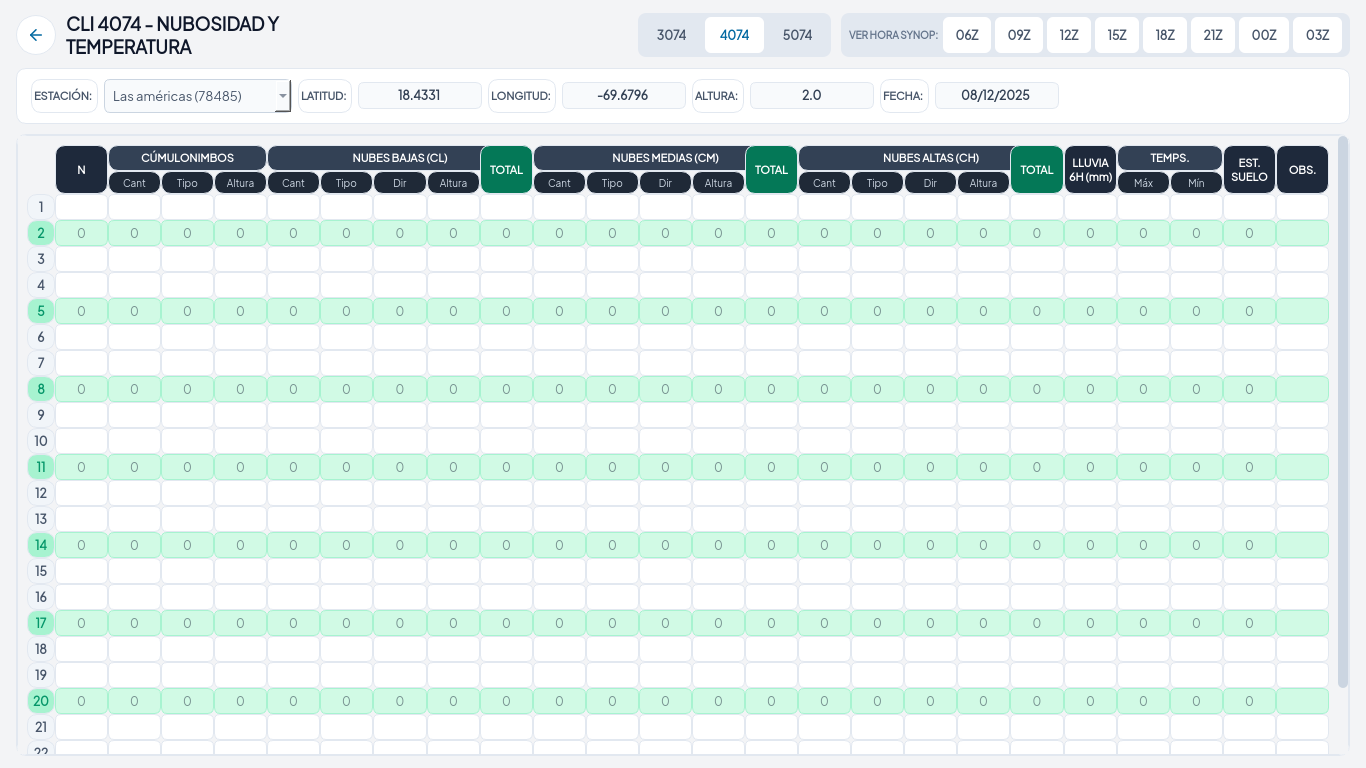
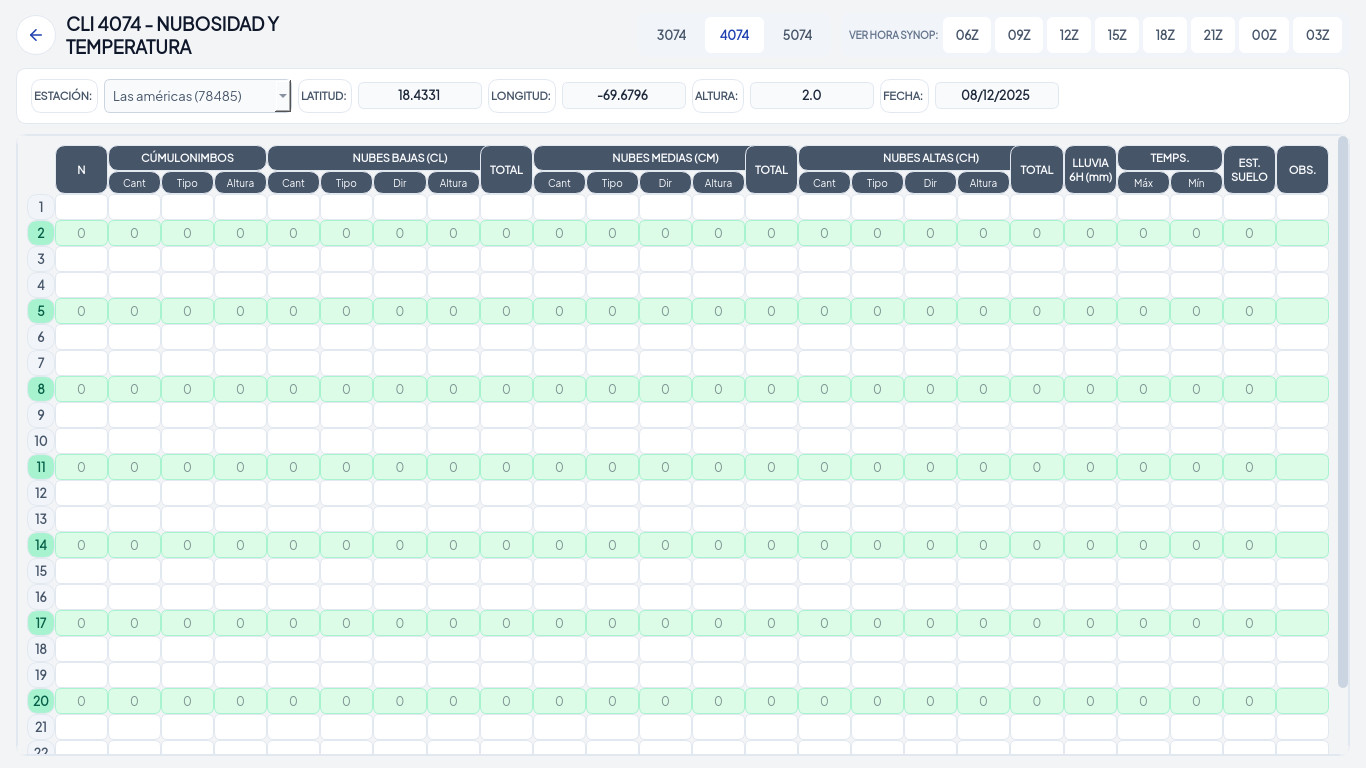
refactor(cli4074): la hoja de nubosidad sale de la paleta (F5, corte 2)
Segunda página del corte de CLI. La grilla de 24 renglones no se toca.

El verde que distingue las filas de las horas principales deja de ser literal
y gana dos roles propios en las dos paletas, `ok_borde` y `ok_texto`, porque
su función es identificar esas filas y no confundirse con el acento azul: el
4074 mantiene su identidad verde sin robar el acento.

Tematizado: hoja única (sub/main/ro/focus), checkboxes marcados en `ok`,
cabeceras de grupo y sub-cabeceras en `banda`/`banda_texto` (las cuatro
familias de nubes y los rótulos N/LLUVIA/EST. SUELO/OBS. llevaban el color en
las tuplas de datos), botón Guardar al acento único, pestañas, horas, combo y
marcos por roles. El rowspan de sub-cabecera verde usa `ok_texto`.

El test que fijaba el color de las cabeceras se migra al rol; los 90 tests de
CLI pasan.

Capturas verificadas en claro y oscuro: las filas principales se leen verde en
los dos temas.

835 passed, EXIT=0, sin avisos de parseo.

Changed region(s): [[0.0307, 0.1875, 0.9839, 0.25]]

diff --git a/oms_ui/pages/cli4074.py b/oms_ui/pages/cli4074.py
@@ -31,43 +31,52 @@ from oms_core.services import cli as cli_service
 from oms_ui.icons import lucide_icon
 from oms_ui.widgets import StyledComboBox
 
+
+def _qss(plantilla: str) -> str:
+    from string import Template
+
+    from oms_ui import theme as _theme
+
+    return Template(plantilla).substitute(_theme.palette_actual())
+
+
 #: (field, sub-header text) in column order; groups carry their own colors.
 GROUPS_4074: tuple[tuple[str, str, int, tuple[tuple[str, str], ...]], ...] = (
-    ("CÚMULONIMBOS", "#334155", 3, (
+    ("CÚMULONIMBOS", "$banda", 3, (
         ("cb_cant", "Cant"), ("cb_tipo", "Tipo"), ("cb_altura", "Altura"),
     )),
-    ("NUBES BAJAS (CL)", "#334155", 5, (
+    ("NUBES BAJAS (CL)", "$banda", 5, (
         ("nb_cant", "Cant"), ("nb_tipo", "Tipo"), ("nb_direc", "Dir"),
         ("nb_altura", "Altura"), ("nb_total", "TOTAL"),
     )),
-    ("NUBES MEDIAS (CM)", "#334155", 5, (
+    ("NUBES MEDIAS (CM)", "$banda", 5, (
         ("nm_cant", "Cant"), ("nm_tipo", "Tipo"), ("nm_direc", "Dir"),
         ("nm_altura", "Altura"), ("nm_total", "TOTAL"),
     )),
-    ("NUBES ALTAS (CH)", "#334155", 5, (
+    ("NUBES ALTAS (CH)", "$banda", 5, (
         ("na_cant", "Cant"), ("na_tipo", "Tipo"), ("na_direc", "Dir"),
         ("na_altura", "Altura"), ("na_total", "TOTAL"),
     )),
 )
 _ROWSPAN_FIELDS: tuple[tuple[str, str, str], ...] = (
-    ("nubosidad", "N", "#1e293b"),
-    ("lluvia_6h", "LLUVIA 6H (mm)", "#1e293b"),
-    ("estado_suelo", "EST. SUELO", "#1e293b"),
-    ("observador", "OBS.", "#1e293b"),
+    ("nubosidad", "N", "$banda"),
+    ("lluvia_6h", "LLUVIA 6H (mm)", "$banda"),
+    ("estado_suelo", "EST. SUELO", "$banda"),
+    ("observador", "OBS.", "$banda"),
 )
 #: ONE stylesheet for the sheet: each cell carries ``row`` ("main"/"sub") and
 #: ``ro`` so Qt parses the rules once instead of ~350 times.
 _SHEET_QSS = """
-QLineEdit[row="sub"] { background-color: #ffffff; border: 1px solid #e2e8f0;
-    color: #1e293b; font-size: 12px; padding: 3px 4px; }
-QLineEdit[row="sub"]:focus { border-color: #38bdf8; background-color: #f0f9ff; }
-QLineEdit[row="main"] { background-color: #d1fae5; border: 1px solid #a7f3d0;
-    color: #1e293b; font-size: 12px; padding: 3px 4px; }
-QLineEdit[row="main"]:focus { border-color: #10b981; background-color: white; }
-QLineEdit[row="main"][ro="true"] { background-color: #a7f3d0;
-    border: 1px solid #6ee7b7; color: #065f46; font-weight: 600; }
-QLineEdit[row="sub"][ro="true"] { background-color: #f8fafc;
-    border: 1px solid #e2e8f0; color: #475569; }
+QLineEdit[row="sub"] { background-color: $superficie; border: 1px solid $borde;
+    color: $texto; font-size: 12px; padding: 3px 4px; }
+QLineEdit[row="sub"]:focus { border-color: $acento; background-color: $acento_fondo; }
+QLineEdit[row="main"] { background-color: $ok_fondo; border: 1px solid $ok_borde;
+    color: $texto; font-size: 12px; padding: 3px 4px; }
+QLineEdit[row="main"]:focus { border-color: $ok; background-color: $superficie; }
+QLineEdit[row="main"][ro="true"] { background-color: $ok_borde;
+    border: 1px solid $ok; color: $ok_texto; font-weight: 600; }
+QLineEdit[row="sub"][ro="true"] { background-color: $panel_alt;
+    border: 1px solid $borde; color: $suave; }
 """
 
 _TEMPS: tuple[tuple[str, str], ...] = (("temp_max", "Máx"), ("temp_min", "Mín"))
@@ -77,40 +86,40 @@ ZERO_PLACEHOLDER_ROWS: frozenset[int] = frozenset(
     {2, 5, 8, 11, 14, 17, 20, 23}
 )
 #: main-hour rows tinted GREEN across the full row (IMG/CLI 4074.png).
-_MAIN_TINT = "#d1fae5"
-_MAIN_STICKY = "#a7f3d0"
-_MAIN_NUMBER = "#059669"
+_MAIN_TINT = "$ok_fondo"
+_MAIN_STICKY = "$ok_borde"
+_MAIN_NUMBER = "$ok_texto"
 _MAIN_INPUT_QSS = (
-    "QLineEdit { background-color: #d1fae5; border: 1px solid #a7f3d0;"
-    "color: #1e293b; font-size: 12px; padding: 3px 4px; }"
-    "QLineEdit:focus { border-color: #10b981; background-color: white; }"
+    "QLineEdit { background-color: $ok_fondo; border: 1px solid $ok_borde;"
+    "color: $texto; font-size: 12px; padding: 3px 4px; }"
+    "QLineEdit:focus { border-color: $ok; background-color: $superficie; }"
 )
 _CHECKBOX_QSS = (
     "QCheckBox::indicator { width: 17px; height: 17px;"
-    "border: 2px solid #64748b; border-radius: 4px; background-color: #ffffff; }"
-    "QCheckBox::indicator:hover { border-color: #10b981; }"
-    "QCheckBox::indicator:checked { background-color: #10b981;"
-    "border-color: #047857; }"
+    "border: 2px solid $suave_alt; border-radius: 4px; background-color: $superficie; }"
+    "QCheckBox::indicator:hover { border-color: $ok; }"
+    "QCheckBox::indicator:checked { background-color: $ok;"
+    "border-color: $ok_texto; }"
     "QCheckBox { background-color: transparent; }"
 )
 INPUT_QSS = (
-    "QLineEdit { background-color: #ffffff; border: 1px solid #e2e8f0;"
-    "color: #1e293b; font-size: 12px; padding: 3px 4px; }"
-    "QLineEdit:focus { border-color: #38bdf8; background-color: #f0f9ff; }"
+    "QLineEdit { background-color: $superficie; border: 1px solid $borde;"
+    "color: $texto; font-size: 12px; padding: 3px 4px; }"
+    "QLineEdit:focus { border-color: $acento; background-color: $acento_fondo; }"
 )
 _HEADER_QSS = (
-    "background-color: {color}; color: #ffffff; font-weight: bold;"
+    "background-color: $banda; color: $banda_texto; font-weight: bold;"
     "font-size: 11px; padding: 5px 3px;"
 )
 _SUB_HEADER_QSS = (
-    "background-color: #1f2937; color: #cbd5e1; font-weight: 600;"
+    "background-color: $banda; color: $banda_texto; font-weight: 600;"
     "font-size: 10px; padding: 4px 2px;"
 )
 _SAVE_QSS = (
-    "QPushButton { background-color: #0ea5e9; color: #ffffff;"
+    "QPushButton { background-color: $acento; color: $banda_texto;"
     "border: none; border-radius: 8px; padding: 7px 14px;"
     "font-weight: 700; font-size: 12px; }"
-    "QPushButton:hover { background-color: #0284c7; }"
+    "QPushButton:hover { background-color: $acento_hover; }"
 )
 
 
@@ -163,7 +172,7 @@ class Cli4074View(QWidget):
 
     def _build(self) -> None:
         central = QWidget()
-        central.setStyleSheet(_SHEET_QSS)
+        central.setStyleSheet(_qss(_SHEET_QSS))
         outer = QVBoxLayout(central)
         outer.setContentsMargins(16, 12, 16, 12)
         outer.setSpacing(10)
@@ -173,24 +182,24 @@ class Cli4074View(QWidget):
         # exposed so an embedding window (audit) can repurpose it as "close"
         self.back_button = back_btn
         back_btn.setFixedSize(40, 40)
-        back_btn.setIcon(lucide_icon("arrow-left", "#0369a1", 18))
+        back_btn.setIcon(lucide_icon("arrow-left", _qss("$acento_texto"), 18))
         back_btn.setIconSize(QSize(18, 18))
         back_btn.setCursor(Qt.CursorShape.PointingHandCursor)
         back_btn.setToolTip("Volver a la última hora de observación")
-        back_btn.setStyleSheet(
-            "QPushButton { background-color: #ffffff; border: 1px solid #e2e8f0;"
+        back_btn.setStyleSheet(_qss(
+            "QPushButton { background-color: $superficie; border: 1px solid $borde;"
             "border-radius: 20px; }"
-            "QPushButton:hover { background-color: #e0f2fe; }"
-        )
+            "QPushButton:hover { background-color: $acento_suave; }"
+        ))
         back_btn.clicked.connect(self.back_requested.emit)
         top.addWidget(back_btn, 0, Qt.AlignmentFlag.AlignVCenter)
 
         title = QLabel(self.TITLE)
-        title.setStyleSheet(
+        title.setStyleSheet(_qss(
             # fondo plano (sin fotografía ni degradado): tinta de texto
-                        "font-size: 18px; font-weight: 800; color: #0f172a;"
+                        "font-size: 18px; font-weight: 800; color: $texto_alt;"
             "background: transparent;"
-        )
+        ))
         title.setWordWrap(True)
         top.addWidget(title, 0, Qt.AlignmentFlag.AlignVCenter)
         top.addStretch(1)
@@ -203,10 +212,10 @@ class Cli4074View(QWidget):
         self._build_station_card(outer)
 
         sheet_card = QFrame()
-        sheet_card.setStyleSheet(
-            "QFrame { background-color: #ffffff; border: 1px solid #e2e8f0;"
+        sheet_card.setStyleSheet(_qss(
+            "QFrame { background-color: $superficie; border: 1px solid $borde;"
             "border-radius: 10px; }"
-        )
+        ))
         sheet_layout = QVBoxLayout(sheet_card)
         sheet_layout.setContentsMargins(0, 0, 0, 0)
         grid_host = QWidget()
@@ -223,7 +232,7 @@ class Cli4074View(QWidget):
             header = QLabel(text)
             header.setAlignment(Qt.AlignmentFlag.AlignCenter)
             header.setWordWrap(True)
-            header.setStyleSheet(_HEADER_QSS.format(color=color))
+            header.setStyleSheet(_qss(_HEADER_QSS.format(color=color)))
             grid.addWidget(header, 0, at_col, 2, 1)  # full header height
 
         def group_header(at_col: int, text: str, color: str,
@@ -231,15 +240,15 @@ class Cli4074View(QWidget):
             header = QLabel(text)
             header.setAlignment(Qt.AlignmentFlag.AlignCenter)
             header.setWordWrap(True)
-            header.setStyleSheet(_HEADER_QSS.format(color=color))
+            header.setStyleSheet(_qss(_HEADER_QSS.format(color=color)))
             grid.addWidget(header, 0, at_col, 1, span)
             for offset, (field, sub) in enumerate(fields):
                 if field in TOTAL_FIELDS:  # full height + emerald, like N
-                    rowspan_header(sub, "#047857", at_col + offset)
+                    rowspan_header(sub, _qss("$ok_texto"), at_col + offset)
                     continue
                 sub_label = QLabel(sub)
                 sub_label.setAlignment(Qt.AlignmentFlag.AlignCenter)
-                sub_label.setStyleSheet(_SUB_HEADER_QSS)
+                sub_label.setStyleSheet(_qss(_SUB_HEADER_QSS))
                 grid.addWidget(sub_label, 1, at_col + offset)
 
         # column order verbatim IMG/CLI 4074.png: N first, then the four
@@ -252,7 +261,7 @@ class Cli4074View(QWidget):
         group_header(col, "NUBES MEDIAS (CM)", GROUPS_4074[2][1], 5, GROUPS_4074[2][3]); col += 5
         group_header(col, "NUBES ALTAS (CH)", GROUPS_4074[3][1], 5, GROUPS_4074[3][3]); col += 5
         rowspan_header("LLUVIA 6H (mm)", _ROWSPAN_FIELDS[1][2], col); col += 1
-        group_header(col, "TEMPS.", "#334155", 2, _TEMPS); col += 2
+        group_header(col, "TEMPS.", _qss("$banda"), 2, _TEMPS); col += 2
         rowspan_header("EST. SUELO", _ROWSPAN_FIELDS[2][2], col); col += 1
         rowspan_header("OBS.", _ROWSPAN_FIELDS[3][2], col); col += 1
 
@@ -261,8 +270,8 @@ class Cli4074View(QWidget):
             number.setAlignment(Qt.AlignmentFlag.AlignCenter)
             main = (row - 2) % 3 == 0
             number.setStyleSheet(
-                f"background-color: {_MAIN_STICKY if main else '#f1f5f9'};"
-                f"color: {_MAIN_NUMBER if main else '#475569'}; font-weight: bold;"
+                f"background-color: {_qss(_MAIN_STICKY) if main else _qss('$panel')};"
+                f"color: {_qss(_MAIN_NUMBER) if main else _qss('$suave')}; font-weight: bold;"
                 "font-size: 12px; padding: 4px 5px;"
             )
             grid.addWidget(number, row + 1, 0)
@@ -310,7 +319,7 @@ class Cli4074View(QWidget):
 
     def _build_tabs(self, top: QHBoxLayout) -> None:
         tabs_box = QWidget()
-        tabs_box.setStyleSheet("background-color: #e2e8f0; border-radius: 8px;")
+        tabs_box.setStyleSheet(_qss("background-color: $panel; border-radius: 8px;"))
         tabs_row = QHBoxLayout(tabs_box)
         tabs_row.setContentsMargins(4, 4, 4, 4)
         tabs_row.setSpacing(4)
@@ -320,11 +329,11 @@ class Cli4074View(QWidget):
             active = module_key == self.MODULE_KEY
             tab = QPushButton(label)
             tab.setStyleSheet(
-                f"QPushButton {{ background-color: {'#ffffff' if active else 'transparent'};"
-                f"color: {'#0369a1' if active else '#475569'}; border: none;"
+                f"QPushButton {{ background-color: {_qss('$superficie') if active else 'transparent'};"
+                f"color: {_qss('$acento_texto') if active else _qss('$suave')}; border: none;"
                 "border-radius: 6px; padding: 6px 14px; font-size: 12px;"
                 "font-weight: bold; min-height: 24px; }"
-                "QPushButton:hover { background-color: #f0f9ff; }"
+                "QPushButton:hover { background-color: $acento_fondo; }"
             )
             tab.setCursor(Qt.CursorShape.PointingHandCursor)
             if not active:
@@ -336,25 +345,25 @@ class Cli4074View(QWidget):
 
     def _build_ver_hora(self, top: QHBoxLayout) -> None:
         hour_box = QWidget()
-        hour_box.setStyleSheet("background-color: #e2e8f0; border-radius: 8px;")
+        hour_box.setStyleSheet(_qss("background-color: $panel; border-radius: 8px;"))
         hour_row = QHBoxLayout(hour_box)
         hour_row.setContentsMargins(8, 4, 8, 4)
         hour_row.setSpacing(4)
         hint = QLabel("VER HORA SYNOP:")
-        hint.setStyleSheet(
-            "color: #64748b; font-size: 10px; font-weight: 700;"
+        hint.setStyleSheet(_qss(
+            "color: $suave_alt; font-size: 10px; font-weight: 700;"
             "background: transparent;"
-        )
+        ))
         hour_row.addWidget(hint)
         for hour in ("06Z", "09Z", "12Z", "15Z", "18Z", "21Z",
                       "00Z", "03Z"):  # the day starts at 06Z
             button = QPushButton(hour)
-            button.setStyleSheet(
-                "QPushButton { background-color: #ffffff; color: #475569;"
+            button.setStyleSheet(_qss(
+                "QPushButton { background-color: $superficie; color: $suave;"
                 "border: none; border-radius: 6px; padding: 6px 12px;"
                 "font-size: 12px; font-weight: bold; min-height: 24px; }"
-                "QPushButton:hover { color: #0369a1; background-color: #f0f9ff; }"
-            )
+                "QPushButton:hover { color: $acento_texto; background-color: $acento_fondo; }"
+            ))
             button.setCursor(Qt.CursorShape.PointingHandCursor)
             button.clicked.connect(
                 lambda _checked=False, h=hour: self.synop_hour_requested.emit(h)
@@ -364,19 +373,19 @@ class Cli4074View(QWidget):
 
     def _build_station_card(self, outer: QVBoxLayout) -> None:
         card = QFrame()
-        card.setStyleSheet(
-            "QFrame { background-color: #ffffff; border: 1px solid #e2e8f0;"
+        card.setStyleSheet(_qss(
+            "QFrame { background-color: $superficie; border: 1px solid $borde;"
             "border-radius: 10px; }"
-        )
+        ))
         grid = QGridLayout(card)
         grid.setContentsMargins(14, 10, 14, 10)
 
         def meta_label(text: str) -> QLabel:
             label = QLabel(text)
-            label.setStyleSheet(
-                "color: #475569; font-weight: 700; font-size: 11px;"
+            label.setStyleSheet(_qss(
+                "color: $suave; font-weight: 700; font-size: 11px;"
                 "background: transparent;"
-            )
+            ))
             return label
 
         self.station_combo = StyledComboBox()
@@ -386,10 +395,10 @@ class Cli4074View(QWidget):
             max(self.station_combo.findData(self.station), 0)
         )
         self.station_combo.setEnabled(False)  # locked like the oracle route
-        self.station_combo.setStyleSheet(
-            "QComboBox { background-color: #f8fafc; border: 1px solid #cbd5e1;"
-            "border-radius: 6px; padding: 4px 8px; color: #475569; height: 24px; }"
-        )
+        self.station_combo.setStyleSheet(_qss(
+            "QComboBox { background-color: $panel_alt; border: 1px solid $borde_input;"
+            "border-radius: 6px; padding: 4px 8px; color: $suave; height: 24px; }"
+        ))
         self.fecha_edit = _ro_field(f"{self.fecha[8:]}/{self.fecha[5:7]}/{self.fecha[:4]}")
 
         station_row = next(
@@ -490,9 +499,9 @@ def _ro_field(text: str) -> QLineEdit:
     edit = QLineEdit(text)
     edit.setReadOnly(True)
     edit.setAlignment(Qt.AlignmentFlag.AlignCenter)
-    edit.setStyleSheet(
-        "background-color: #f8fafc; border: 1px solid #e2e8f0;"
-        "border-radius: 6px; padding: 4px 8px; color: #334155; font-size: 12px;"
-    )
+    edit.setStyleSheet(_qss(
+        "background-color: $panel_alt; border: 1px solid $borde;"
+        "border-radius: 6px; padding: 4px 8px; color: $texto; font-size: 12px;"
+    ))
     return edit
 

diff --git a/oms_ui/theme.py b/oms_ui/theme.py
@@ -64,6 +64,8 @@ PALETTE_CLARO: dict[str, str] = {
     "ok_fondo": "#dcfce7",
     "banda": "#475569",
     "banda_texto": "#f8fafc",
+    "ok_borde": "#a7f3d0",
+    "ok_texto": "#065f46",
     "teal": "#0d9488",
     "teal_borde": "#99f6e4",
     "teal_fondo": "#f0fdfa",
@@ -104,6 +106,8 @@ PALETTE_OSCURO: dict[str, str] = {
     "ok_fondo": "#12281c",
     "banda": "#243044",
     "banda_texto": "#e2e8f0",
+    "ok_borde": "#2a4a38",
+    "ok_texto": "#86efac",
     "teal": "#2dd4bf",
     "teal_borde": "#15403b",
     "teal_fondo": "#0d2a27",
